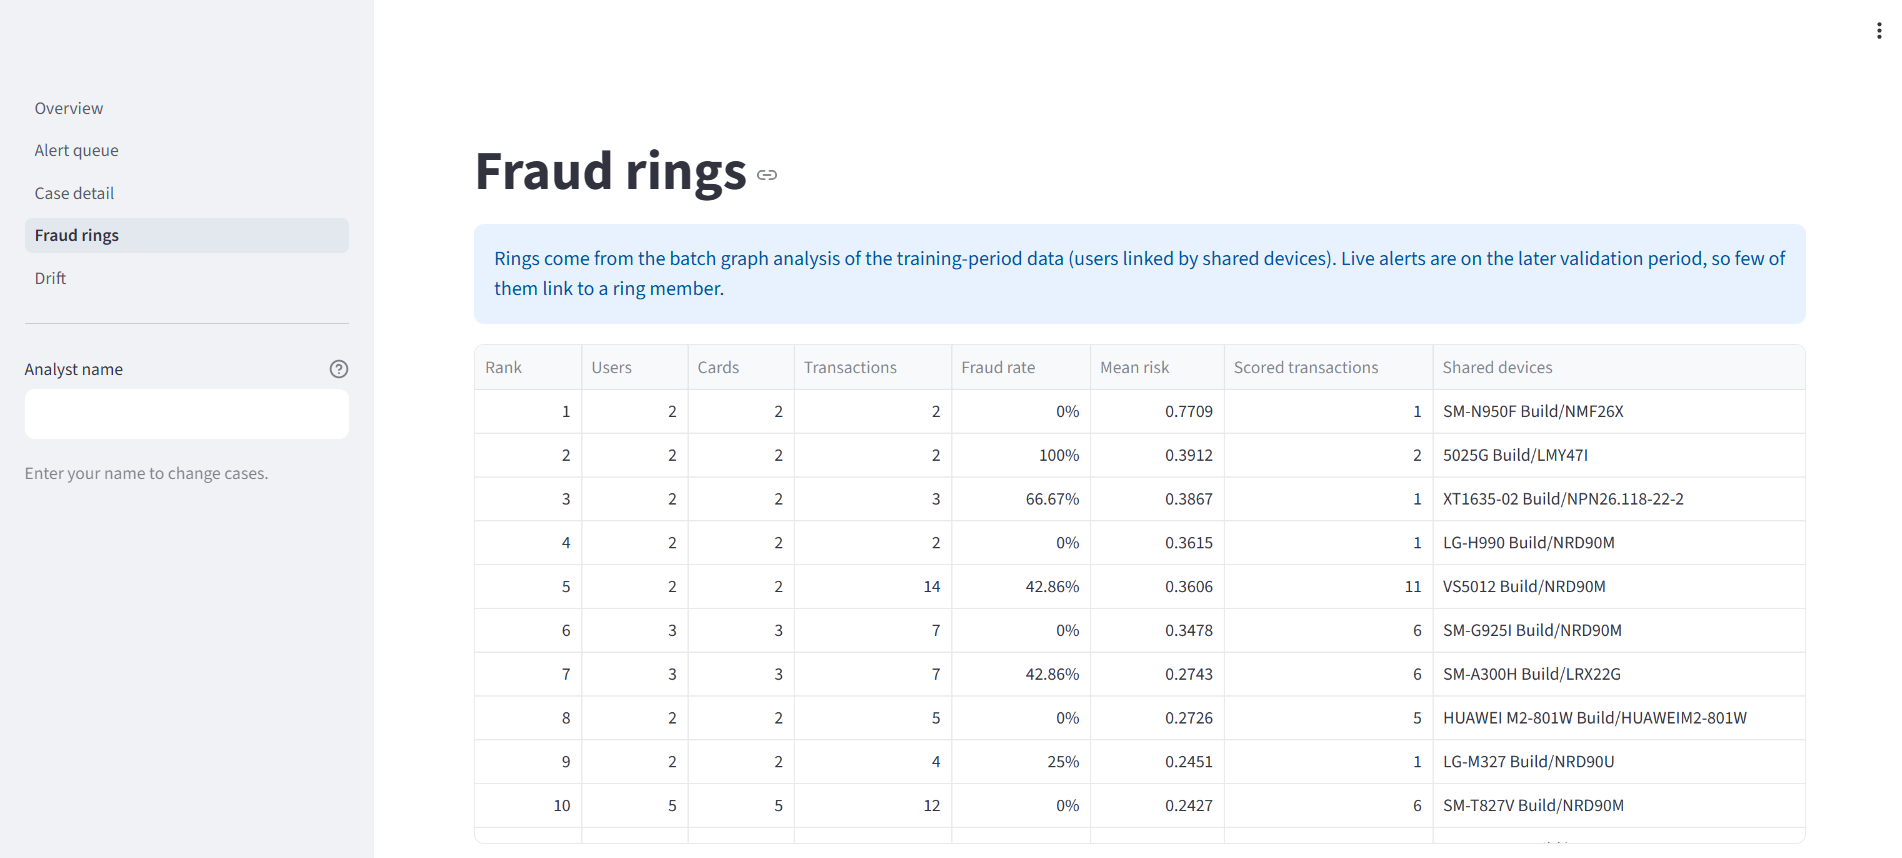
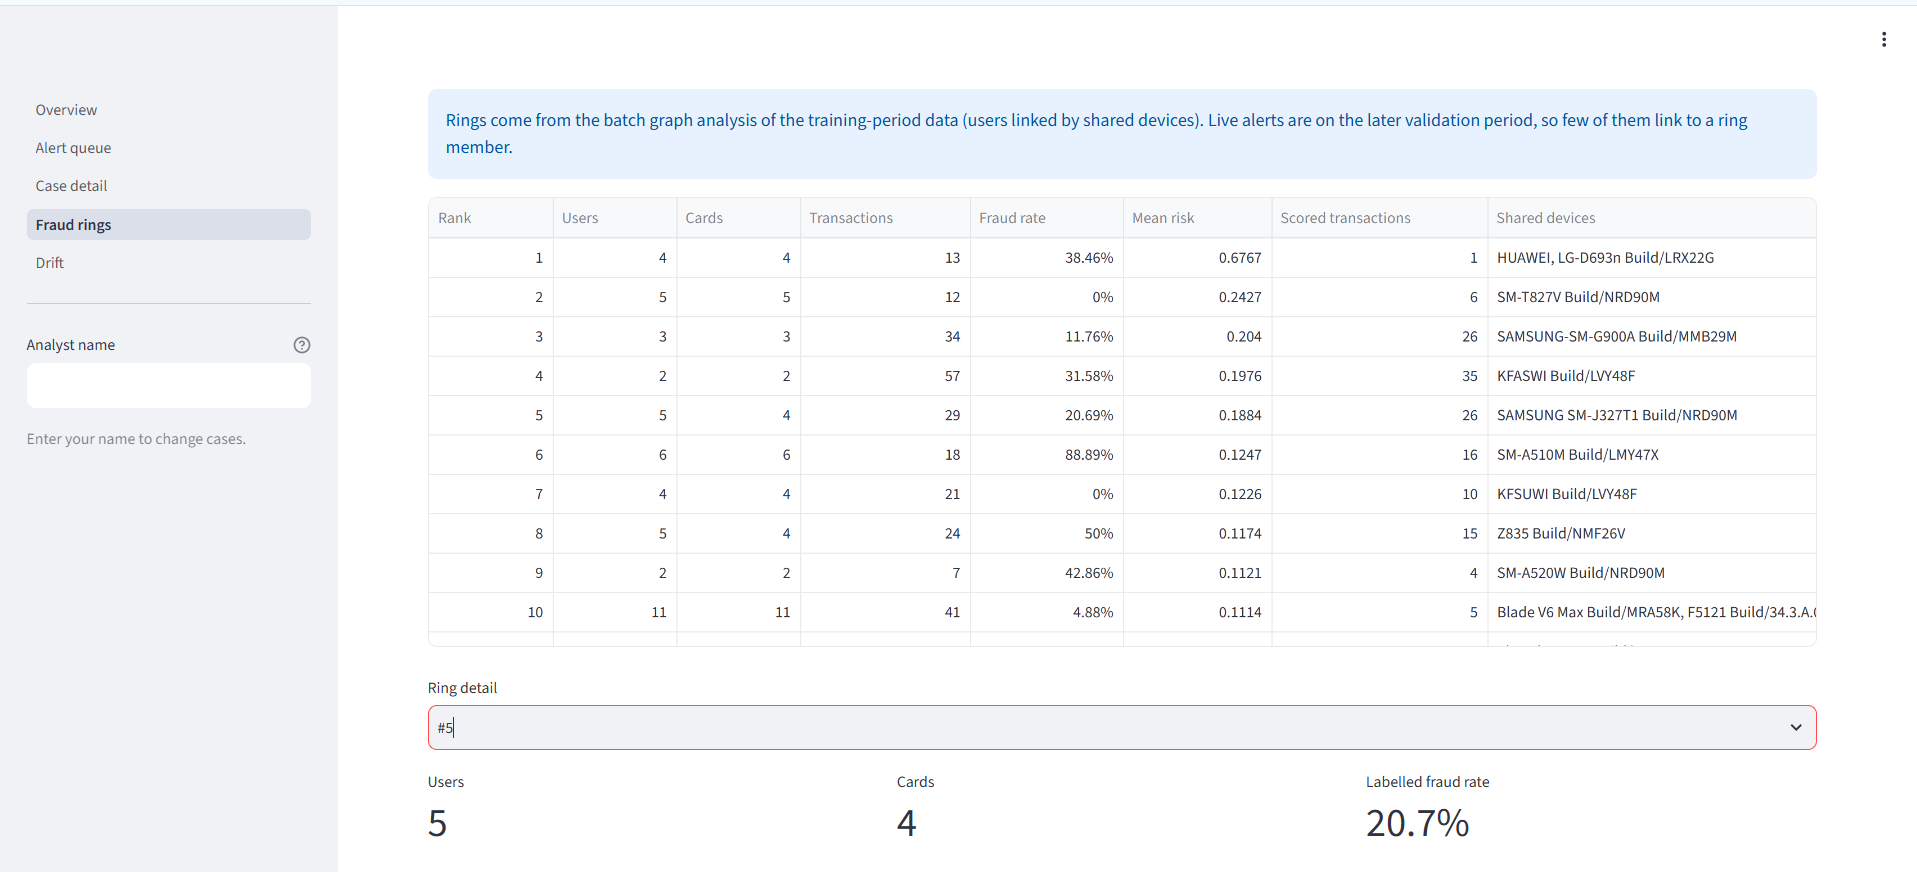
docs: final docs before recording
Retaken ring screenshots 06 and 07. brief-evidence row 47 -> "Measured: no lift on
strict check (exploratory)"; ring wording matches the strict check. Commits the
2026-10-30 verification edits and evidence; Minikube wording matches the image date.
Test results regenerated on c00cdce (607 passed + 1 skipped, 41 integration), with
why CI counts differ. No code changes.

diff --git a/docs/brief-evidence.md b/docs/brief-evidence.md
@@ -44,7 +44,7 @@ with PostgreSQL / Kafka / Redis, security scans, image push).
 | Graph of accounts, devices, cards | Yes (account graph optional; no gain) | `src/graph/build.py` `ENTITY_COLUMNS`. Default GNN graph nodes: `tx`, `card` (card1-card6), `device` (`DeviceInfo`), `p_email`, `r_email`, `addr1`. `--graph account` adds an `account` (uid) node with tx-account and account-card edges; accounts link to devices through transactions. Evaluated 2026-10-29 (docs/gnn.md "Account node"): GNN alone 0.2008 vs 0.2021, blends still worse than XGBoost v2 (CI below zero), not served. Default graph verified unchanged (edge_index sha256 per edge type). | No direct account-device edge (needs edge-level time, which would change the existing graph's sampling); no account node for uids with a missing addr1; `DeviceInfo` is a device model / OS string (`Windows`, `iOS Device`), not a device ID. |
 | GNN (PyG) | Yes | Hetero GraphSAGE with temporal sampling (`src/graph/model.py`, `data.py`, `train.py`); official validation PR-AUC **0.2021** (MLflow run c233ecd0, reproduced, scores bit-identical) vs XGBoost 0.2992; leakage tests in `tests/test_graph.py` | It loses to XGBoost by about 0.10 PR-AUC; not tuned. |
 | Fraud rings | Yes | `src/graph/rings.py` `ring_components`: union-find connected components of the bipartite **uid - DeviceInfo** graph; devices shared by 2-10 uids only, hub uids (> 3 devices or > 1,000 tx) excluded; card_id never a link. `summarize_rings`, `write_table` -> table `fraud_rings`. **The GNN ranks rings (mean score), it does not build them.** Uids with a missing addr1 (`<NA>`) are excluded. reports/fraud_rings.md: 215 rings, 813 users. | Rings rest on a weak link (device model strings) and hand-picked limits. The exclusion has a coverage cost: 65,706 transactions (11.13%) and 2,601 of 43,018 uids have a missing addr1, fraud rate 11.78% vs 3.50% overall; fraud transactions inside a ring fell from 645 to 482 (180 left, 17 entered). |
-| Ring quality vs base rate | Measured: weak (exploratory) | Measured: `summarize_rings` `fraud_rate` = labelled fraud rate of the ring's transactions. reports/fraud_rings.md: top-20 ranked rings 17.23%, all rings 3.73%, overall 3.50% (account graph: 22.92%). Strict temporal check (docs/gnn.md "Ring ranking check": rank on training blocks 1-2, rate on validation rows only): **2.22% (8 frauds) vs 2.35%** in the same 141 rings, so no lift; account graph 1.42% (5 frauds). No in-sample scores are used. | The reported rate reuses labels within a ring (all ring rows, incl. unscored block 0 and rows whose labels trained the scoring GNN); measured per transaction only, not per ring member; the clean check rests on 5-8 frauds. |
+| Ring quality vs base rate | Measured: no lift on strict check (exploratory) | Measured: `summarize_rings` `fraud_rate` = labelled fraud rate of the ring's transactions. reports/fraud_rings.md: top-20 ranked rings 17.23%, all rings 3.73%, overall 3.50% (account graph: 22.92%). Strict temporal check (docs/gnn.md "Ring ranking check": rank on training blocks 1-2, rate on validation rows only): **2.22% (8 frauds) vs 2.35%** in the same 141 rings, so no lift; account graph 1.42% (5 frauds). No in-sample scores are used. | The reported rate reuses labels within a ring (all ring rows, incl. unscored block 0 and rows whose labels trained the scoring GNN); measured per transaction only, not per ring member; the clean check rests on 5-8 frauds. |
 | GNN as XGBoost feature | Yes (measured, not kept) | reports/gnn_stacking.md: mean 0.2827 vs 0.2935 over 3 seeds (-0.0108) | |
 | Blend | Yes (measured, not served) | `src/graph/blend.py`; reports/gnn_blend.md; PR #8. transaction w=0.50: AP 0.2749 vs 0.2992, CI [-0.0346, -0.0137]; entity w=0.45: 0.2797 vs 0.2992, CI [-0.0263, -0.0118]. Both worse; not served. | |
 
@@ -70,7 +70,7 @@ with PostgreSQL / Kafka / Redis, security scans, image push).
 
 | Item | Status | Evidence | Gap |
 |---|---|---|---|
-| Streamlit dashboard: alerts, case status | Yes | `src/dashboard/` (Overview, Alert queue, Case detail with a read-only Why-flagged panel (served model's per-feature contributions, parity-checked against the stored score, `src/dashboard/explain.py`), Fraud rings, Drift); workflow `workflow.py`, optimistic locking; `tests/test_dashboard.py` drives the real user path; docs/dashboard.md; screenshots of every page in [docs/screenshots/](screenshots/) (01-overview to 08-drift, demo database, 2026-10-28) | No authentication (self-declared analyst name). |
+| Streamlit dashboard: alerts, case status | Yes | `src/dashboard/` (Overview, Alert queue, Case detail with a read-only Why-flagged panel (served model's per-feature contributions, parity-checked against the stored score, `src/dashboard/explain.py`), Fraud rings, Drift); workflow `workflow.py`, optimistic locking; `tests/test_dashboard.py` drives the real user path; docs/dashboard.md; screenshots of every page in [docs/screenshots/](screenshots/) (01-overview to 08-drift, demo database, 2026-10-28; 06 and 07 retaken 2026-11-02) | No authentication (self-declared analyst name). |
 | Feedback labels | Yes | Dashboard captures feedback labels (append-only case_reviews). Using them in retraining is a next step: all current labels fall in the validation period, so a clean holdout would exclude them. | |
 | Kubernetes (Minikube) | Yes | `k8s/` (kustomization), docs/kubernetes.md "Results" (2026-10-25: 30 events, scores identical to host batch, liveness restart verified) | Not production: single replicas, no Ingress/TLS, no secrets manager. |
 
@@ -93,7 +93,7 @@ with PostgreSQL / Kafka / Redis, security scans, image push).
 | README + setup | Yes | README rewritten (PR #14) and corrected from a fresh-clone test on 2026-10-28 (PR #22): clone from GitHub, install, data check, training (reproduced v2 byte for byte), unit tests (573 passed, 2 skipped without GNN extras) and the full Compose quickstart (materialize, 2,000 events, /health, dashboard with alerts) ran without an error on Windows 11 | Not re-run in the clone: the Kaggle download itself (the CSVs were copied), integration tests, lint/types and the GNN extras; macOS/Linux untested. |
 | Architecture diagram | Yes | System-wide Mermaid diagram with what runs in Compose, Minikube and on the host only: [docs/architecture.md](architecture.md) (PR #14). The docs/serving.md diagram now shows `Scorer.score_event -> FeastFeatures.read` (fixed in PR #13). | |
 | API / data docs | Yes | [docs/api.md](api.md) (`/health`, `/score`: fields, real example, errors, measured latency) with [docs/openapi.json](openapi.json) exported from the app; [docs/data.md](data.md) (Kafka topics and messages, the five PostgreSQL tables generated from the schema code, Feast objects); also docs/serving.md, docs/features.md, docs/feature_store.md, data/README.md | |
-| Test results + numbers | Yes | Regenerated at 915ffdb (2026-10-28): docs/test-results-unit.txt (580 passed with the GNN stack), docs/test-results-integration.txt (41 passed); CI green on every PR; model, latency and throughput numbers above | |
+| Test results + numbers | Yes | Regenerated at c00cdce (2026-11-02): docs/test-results-unit.txt (607 passed, 1 skipped with the GNN stack), docs/test-results-integration.txt (41 passed). CI: 582 passed, 11 skipped. CI differs from local because its unit job has no GNN stack and no IEEE-CIS dataset, so those tests skip there. CI green on every PR; model, latency and throughput numbers above | |
 | Presentation | No | None found in the repo | No slides or presentation exist. |
 | Reflection | No | README "How this project was built" covers ownership and AI assistance only | No reflection on decisions, results and lessons. |
 
@@ -119,11 +119,11 @@ with PostgreSQL / Kafka / Redis, security scans, image push).
 5. **The graph is weaker than the brief implies**: the account node exists only in the
    optional account graph (2026-10-29) and links to devices through transactions; it did not
    help (GNN alone 0.2008, blends still worse than XGBoost). `DeviceInfo` is a model string,
-   the GNN loses to XGBoost (0.2021 vs 0.2992), and ring quality is measured per transaction
-   only on tiny rings.
+   the GNN loses to XGBoost (0.2021 vs 0.2992), and the ring ranking shows no lift on the
+   strict check (top-20 2.22% vs 2.35% in the same rings).
 6. **Stale supporting docs (fixed)**: the docs/serving.md diagram, docs/dashboard.md "Not in
    Kubernetes yet" and other stale doc claims were fixed in PR #13; test results were
-   regenerated at 915ffdb (580 unit, 41 integration passed). README.md stale items remain
+   regenerated at c00cdce (607 unit, 41 integration passed). README.md stale items remain
    (gap 2).
 7. **No recorded demo**.
 8. **Imbalance method**: no SMOTE, and the served model uses no class weight (measured and

diff --git a/README.md b/README.md
@@ -4,7 +4,8 @@
 
 Scores card transactions for fraud as they stream through Kafka, using an XGBoost model with
 leakage-safe history features served from Feast. Alerts go to PostgreSQL, where analysts review
-them in a Streamlit dashboard. A batch GNN looks for fraud rings, and an Evidently drift job can
+them in a Streamlit dashboard. A batch job links users into candidate fraud rings, which a GNN ranks
+(no lift on the strict check, see Results), and an Evidently drift job can
 trigger retraining. It uses production-style engineering (CI, tests, security scanning, retries
 and a dead-letter queue, Kubernetes) but runs as a local demo on Docker Compose and Minikube; it
 is not deployed to real traffic.
@@ -24,7 +25,7 @@ is not deployed to real traffic.
 | Feast training matrix | identical to the pandas matrix v2 was trained on: 472,432 / 472,432 training rows, sha256 `66db4b971d3e…` both sides (validation 118,108 rows, encoded matrix also equal) | [docs/feature_store.md](docs/feature_store.md) "Training from the Feast offline store" |
 | Drift trigger | fired without `--force-retrain` (days 170-181, top-feature rule); challenger kept out by the bootstrap rule: delta +0.0053, 95% CI [-0.0160, +0.0254], lower bound below the 0.01 margin | [docs/evidence/2026-10-27-drift-trigger/README.md](docs/evidence/2026-10-27-drift-trigger/README.md) |
 | Fraud rings (exploratory) | GNN-ranked top-20 rings: 17.23% labelled fraud per transaction vs 3.50% overall as reported, but that reuses labels within a ring; with a strict temporal check (rank on training blocks, rate on validation rows only) 2.22% vs 2.35% in the same rings, on 8 frauds (account graph: 1.42%, 5 frauds), so the ranking shows no lift. Uids with a missing address are excluded, see Known limitations | [docs/gnn.md](docs/gnn.md) "Ring ranking check" |
-| Tests | 607 unit passed + 1 skipped (an opt-in demo-DB test) with the GNN extras (local, 2026-11-02); 582 passed + 11 skipped without them and 41 integration passed (CI run #83, PR #33) | CI run #83; older full logs: [docs/test-results-unit.txt](docs/test-results-unit.txt), [docs/test-results-integration.txt](docs/test-results-integration.txt) (2026-10-28) |
+| Tests | 607 unit passed + 1 skipped (an opt-in demo-DB test) with the GNN extras (local, 2026-11-02); 582 passed + 11 skipped without them and 41 integration passed (CI run #83, PR #33) | CI run #83; full logs: [docs/test-results-unit.txt](docs/test-results-unit.txt), [docs/test-results-integration.txt](docs/test-results-integration.txt) (2026-11-02). CI differs from local because its unit job has no GNN stack and no IEEE-CIS dataset, so those tests skip there. |
 
 On one laptop with 3 consumer containers, the scoring pipeline processed **46.8 events/s** unthrottled. At a steady 5 events/s, scoring one event (Feast state read, features, XGBoost, PostgreSQL write, Feast state push) took **41 ms p50 / 109 ms p99**, and an event was in the database **31 ms p50 / 74 ms p99** after it was produced (1,000 replayed validation events; docs/serving.md "Throughput benchmark").
 
@@ -77,8 +78,8 @@ plus "(anonymised)". Contributions explain the model's score, not the cause of f
   = the stored score within 1e-6; otherwise the panel shows a warning instead of bars. All
   5,093 demo alerts pass (max |score difference| 7.0e-8, max |sum - margin| 5.4e-6).
 - Screenshot: [case 1502, why flagged](docs/screenshots/case-why-flagged.png).
-- The Minikube dashboard image is one feature behind: it has no Why-flagged panel (not
-  rebuilt; the cluster has no feature file).
+- Minikube: the dashboard image was rebuilt on 2026-10-30 from 4b811c8 (main has since changed only src/graph/rings.py, which the dashboard does not import), but the cluster
+  has no feature file, so the panel shows "No explanation data in this deployment".
 
 ## Setup from a fresh clone
 

diff --git a/CLAUDE.md b/CLAUDE.md
@@ -71,7 +71,7 @@ matters (files, numbers, running services) before relying on it.
   Demo stack stopped (`docker compose stop`, volumes kept); Minikube stopped. Images: api
   `585e02c00550`, consumer `9c282577c727`, dashboard `7621290406d0` (Why-flagged).
   State: backups/state-2026-10-30-eod.txt.
-- brief-evidence (PR #29): 36 Yes, 1 Measured (rings, exploratory), 1 Partial (Demo), 2 No
+- brief-evidence (PR #29): 36 Yes, 1 Measured ("no lift on strict check", rings, exploratory), 1 Partial (Demo), 2 No
   (Presentation, Reflection).
 - **Why flagged** (PR #30, docs/dashboard.md, README "Dashboard"): read-only case-page panel,
   top 5 raising / top 3 lowering features from the served v2 bundle's `pred_contribs`; the
@@ -79,7 +79,7 @@ matters (files, numbers, running services) before relying on it.
   src.dashboard.explain build` (gitignored `artifacts/explain/features.csv.gz`, mounted
   read-only); parity check per case (sigmoid(margin) = stored score within 1e-6) passes on all
   5,093 alerts (max 7.0e-8). `tests/test_explain_real.py` is opt-in (EXPLAIN_DEMO_DATABASE_URL,
-  read-only). Minikube dashboard image is one feature behind.
+  read-only). Minikube dashboard image rebuilt 2026-10-30 from 4b811c8; it has the panel but no feature file.
 - **Load test** (PR #31, docs/evidence/2026-10-30-load-test/): `POST /score` writes for new
   transactions, so it ran on the fraud_bench copy with a temporary API (127.0.0.1:18001).
   One client ~35 req/s, p50 25 ms; knee between 1 and 5 clients (store = one connection behind
@@ -272,8 +272,8 @@ matters (files, numbers, running services) before relying on it.
   - Fraud rings (`python -m src.graph.rings`): uid + device links only (never card_id), device
     values shared by <= 10 uids, uids with <= 3 devices and <= 1,000 transactions; missing-addr1
     uids excluded; 215 rings, largest 18 users (2.2%), 16 unscored (first time block); top-20
-    labelled fraud rate 17.23% vs 3.50% (weak evidence; exploratory, strict temporal check
-    2.22%, see above). reports/fraud_rings.md + table `fraud_rings` in the demo Postgres.
+    labelled fraud rate 17.23% vs 3.50% (exploratory; strict temporal check 2.22% vs 2.35%,
+    no lift, see above). reports/fraud_rings.md + table `fraud_rings` in the demo Postgres.
 - CI/CD (.github/workflows/ci.yml): lint + mypy strict + unit tests; integration job with
   PostgreSQL 16, Kafka 3.8.1 (KRaft), Redis 7.4.1 service containers; on push to `main`, image
   pushed to `ghcr.io/manojkumargudge/real-time-fraud-detection-platform` (`<sha>`, `latest`).

diff --git a/docs/architecture.md b/docs/architecture.md
@@ -10,6 +10,8 @@ flowchart LR
     MLFLOW[("MLflow registry<br/>local SQLite mlflow.db<br/>champion = production = v2")]
     GNN["GNN + fraud rings<br/>batch job src/graph"]
     RETRAIN["Retraining + promotion gate<br/>(when the drift job fires)"]
+    TASK["Task Scheduler: FraudDrift-Retrain<br/>every 6 h, registered disabled<br/>scripts/scheduled_drift.ps1"]
+    EXPLAIN[("Explanation feature file<br/>artifacts/explain/features.csv.gz<br/>python -m src.dashboard.explain build")]
   end
 
   subgraph BOTH["Docker Compose demo and Minikube"]
@@ -35,6 +37,9 @@ flowchart LR
   DASH -- "case reviews -> labels" --> PG
   DATA --> GNN -- "fraud_rings table" --> PG
   PG --> DRIFT -- "rule fires (host run)" --> RETRAIN -- "challenger alias" --> MLFLOW
+  TASK -- "runs run_drift with retraining" --> DRIFT
+  FEAT --> EXPLAIN -- "read-only mount: Why flagged" --> DASH
+  MLFLOW -- "v2 bundle, pred_contribs" --> DASH
 ```
 
 **Legend**
@@ -51,6 +56,12 @@ flowchart LR
 - Features: Feast stores per-entity state; training (offline store) and serving (Redis) compute
   the features from it with the same function, `entity_state.history_features`
   ([feature_store.md](feature_store.md)).
+- Scheduled retraining (host only): Windows Task Scheduler task `FraudDrift-Retrain` runs the
+  drift job with retraining every 6 h while the laptop is on and awake; it is registered
+  disabled (README "Scheduled retraining").
+- Why flagged (dashboard case page, read-only): the served v2 bundle's per-feature
+  contributions on the point-in-time feature vector from the explanation file, built on the
+  host and mounted read-only into the Compose dashboard (not in Minikube).
 - Labels: analyst reviews are stored append-only in `case_reviews`; they are not yet used for
   retraining.
 - Details: [serving.md](serving.md), [feature_store.md](feature_store.md),

diff --git a/docs/dashboard.md b/docs/dashboard.md
@@ -216,6 +216,6 @@ changed under an open form. Re-reading the version at submit time defeated the l
   reached with `kubectl -n fraud-k8s port-forward svc/dashboard 8502:8501`. It reads the
   cluster's own small database (a 20-event replay), not the Compose demo database; fraud rings
   show as "not run in this deployment" (a host batch job).
-  The cluster image is one feature behind (not rebuilt on 2026-10-30): it has no Why-flagged
-  panel; the cluster also has no feature file, so a rebuilt image would show "No explanation
-  data in this deployment".
+  The cluster image was rebuilt on 2026-10-30 from 4b811c8 (main has since changed only src/graph/rings.py, which the dashboard does not import), but the
+  cluster has no feature file, so its Why-flagged panel shows "No explanation data in this
+  deployment".
